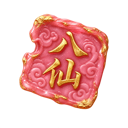
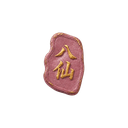
Refine He Xiangu bubble seal

diff --git a/design/Baxian/bubble-elements-v2/process_he_xiangu_seal.py b/design/Baxian/bubble-elements-v2/process_he_xiangu_seal.py
@@ -1,0 +1,40 @@
+#!/usr/bin/env python3
+"""Build compact true-alpha He Xiangu bubble seals from the chroma source."""
+
+from pathlib import Path
+from PIL import Image
+
+
+ROOT = Path(__file__).resolve().parent
+SOURCE = ROOT / "source" / "he-xiangu-pink-baxian-seal-v2-chroma.png"
+
+
+def remove_green(image: Image.Image) -> Image.Image:
+    output = image.convert("RGBA")
+    pixels = []
+    for red, green, blue, _ in output.getdata():
+        dominance = green - max(red, blue)
+        if green >= 170 and dominance >= 105:
+            alpha = 0
+        elif green >= 135 and dominance >= 65:
+            alpha = max(0, min(255, round(255 * (105 - dominance) / 40)))
+        else:
+            alpha = 255
+        if 0 < alpha < 255:
+            green = min(green, max(red, blue) + 12)
+        pixels.append((red, green, blue, alpha))
+    output.putdata(pixels)
+    return output
+
+
+def main() -> None:
+    seal = remove_green(Image.open(SOURCE))
+    # Keep ImageGen's generous transparent padding: this intentionally reduces
+    # the visual footprint without requiring one-off CSS sizing per character.
+    for size in (512, 128):
+        resized = seal.resize((size, size), Image.Resampling.LANCZOS)
+        resized.save(ROOT / f"he-xiangu-pink-baxian-seal-{size}.png", optimize=True)
+
+
+if __name__ == "__main__":
+    main()

diff --git a/design/Baxian/restrained-chat-bubble-usage.md b/design/Baxian/restrained-chat-bubble-usage.md
@@ -21,6 +21,8 @@
 - `source/keyposes-chroma.png`：ImageGen 原始洋红底候选姿态板，仅供再生成和追溯。
 - `source/keyposes.png`：去色键后的透明候选姿态板。
 
+何仙姑气泡印章使用 `bubble-elements-v2/he-xiangu-pink-baxian-seal-128.png`。该版本为低饱和藕荷粉不规则窄印，并在统一的 128px 透明画布内保留较大留白；不要通过 CSS 裁掉透明边距或再次放大印章主体。
+
 ## Codex 必须遵守的接入规则
 
 1. 将人物放在气泡容器的独立绝对定位层中，设置 `pointer-events: none`；不要把人物烘焙进九宫格气泡背景。
